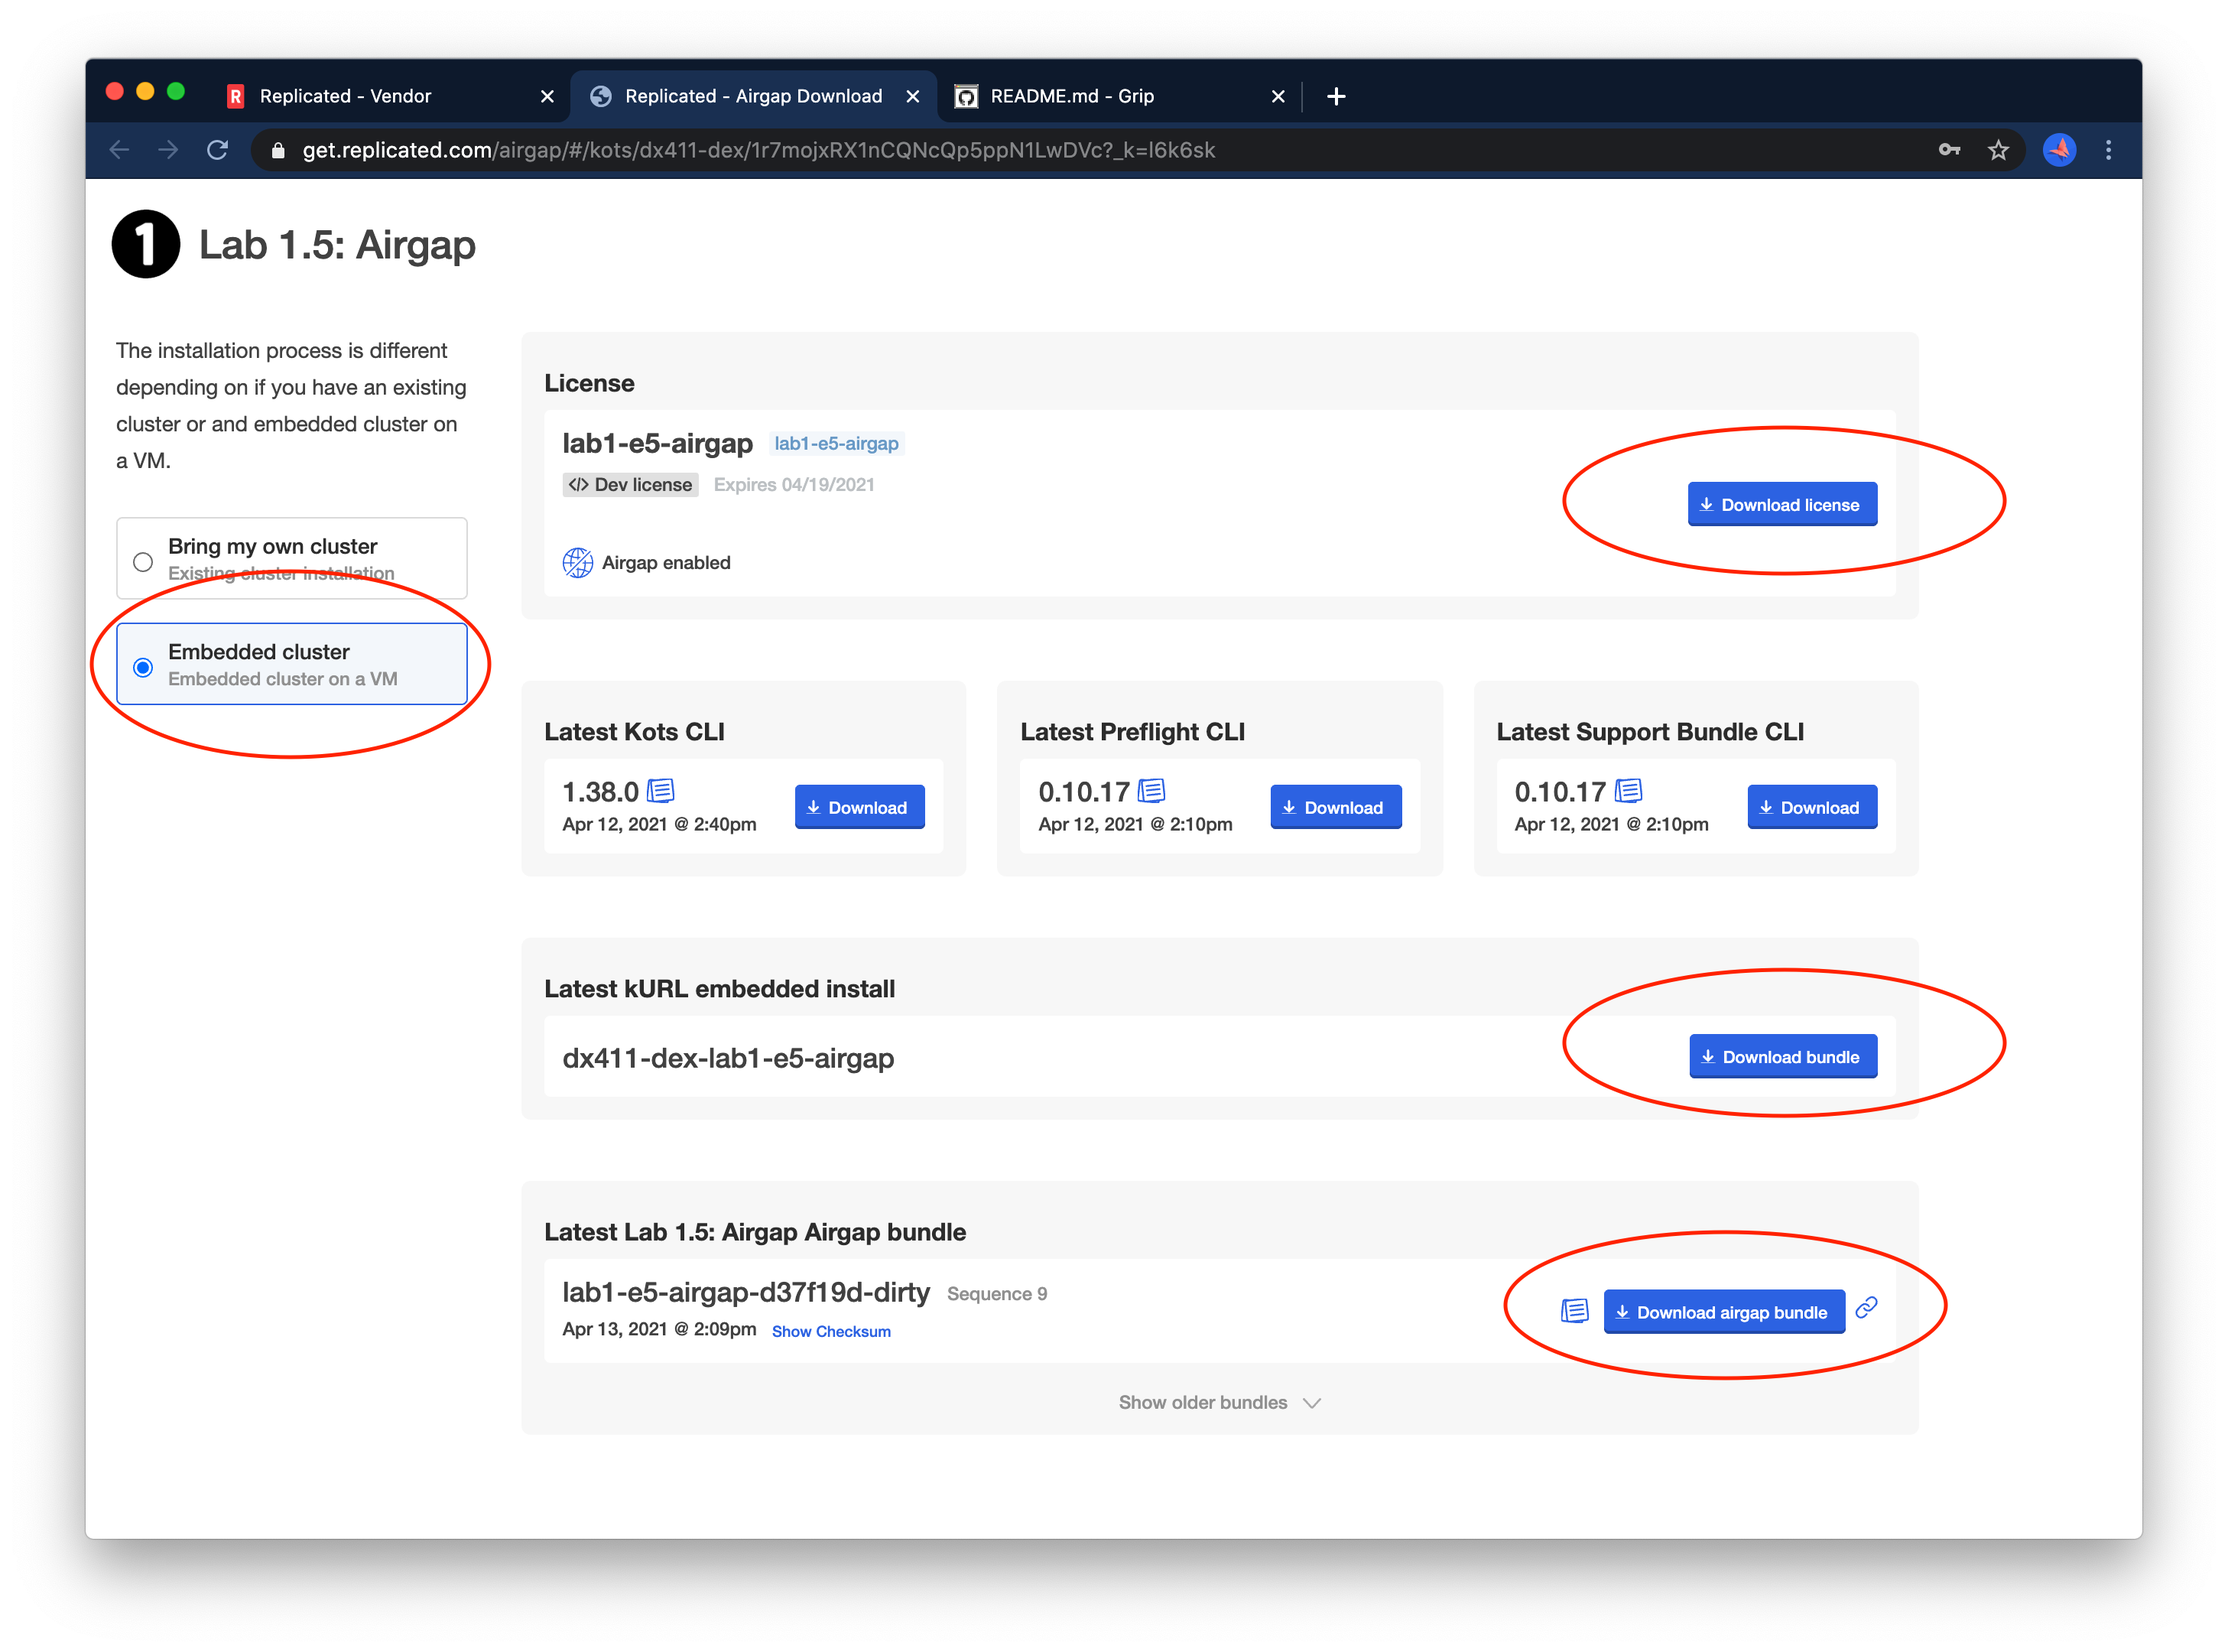
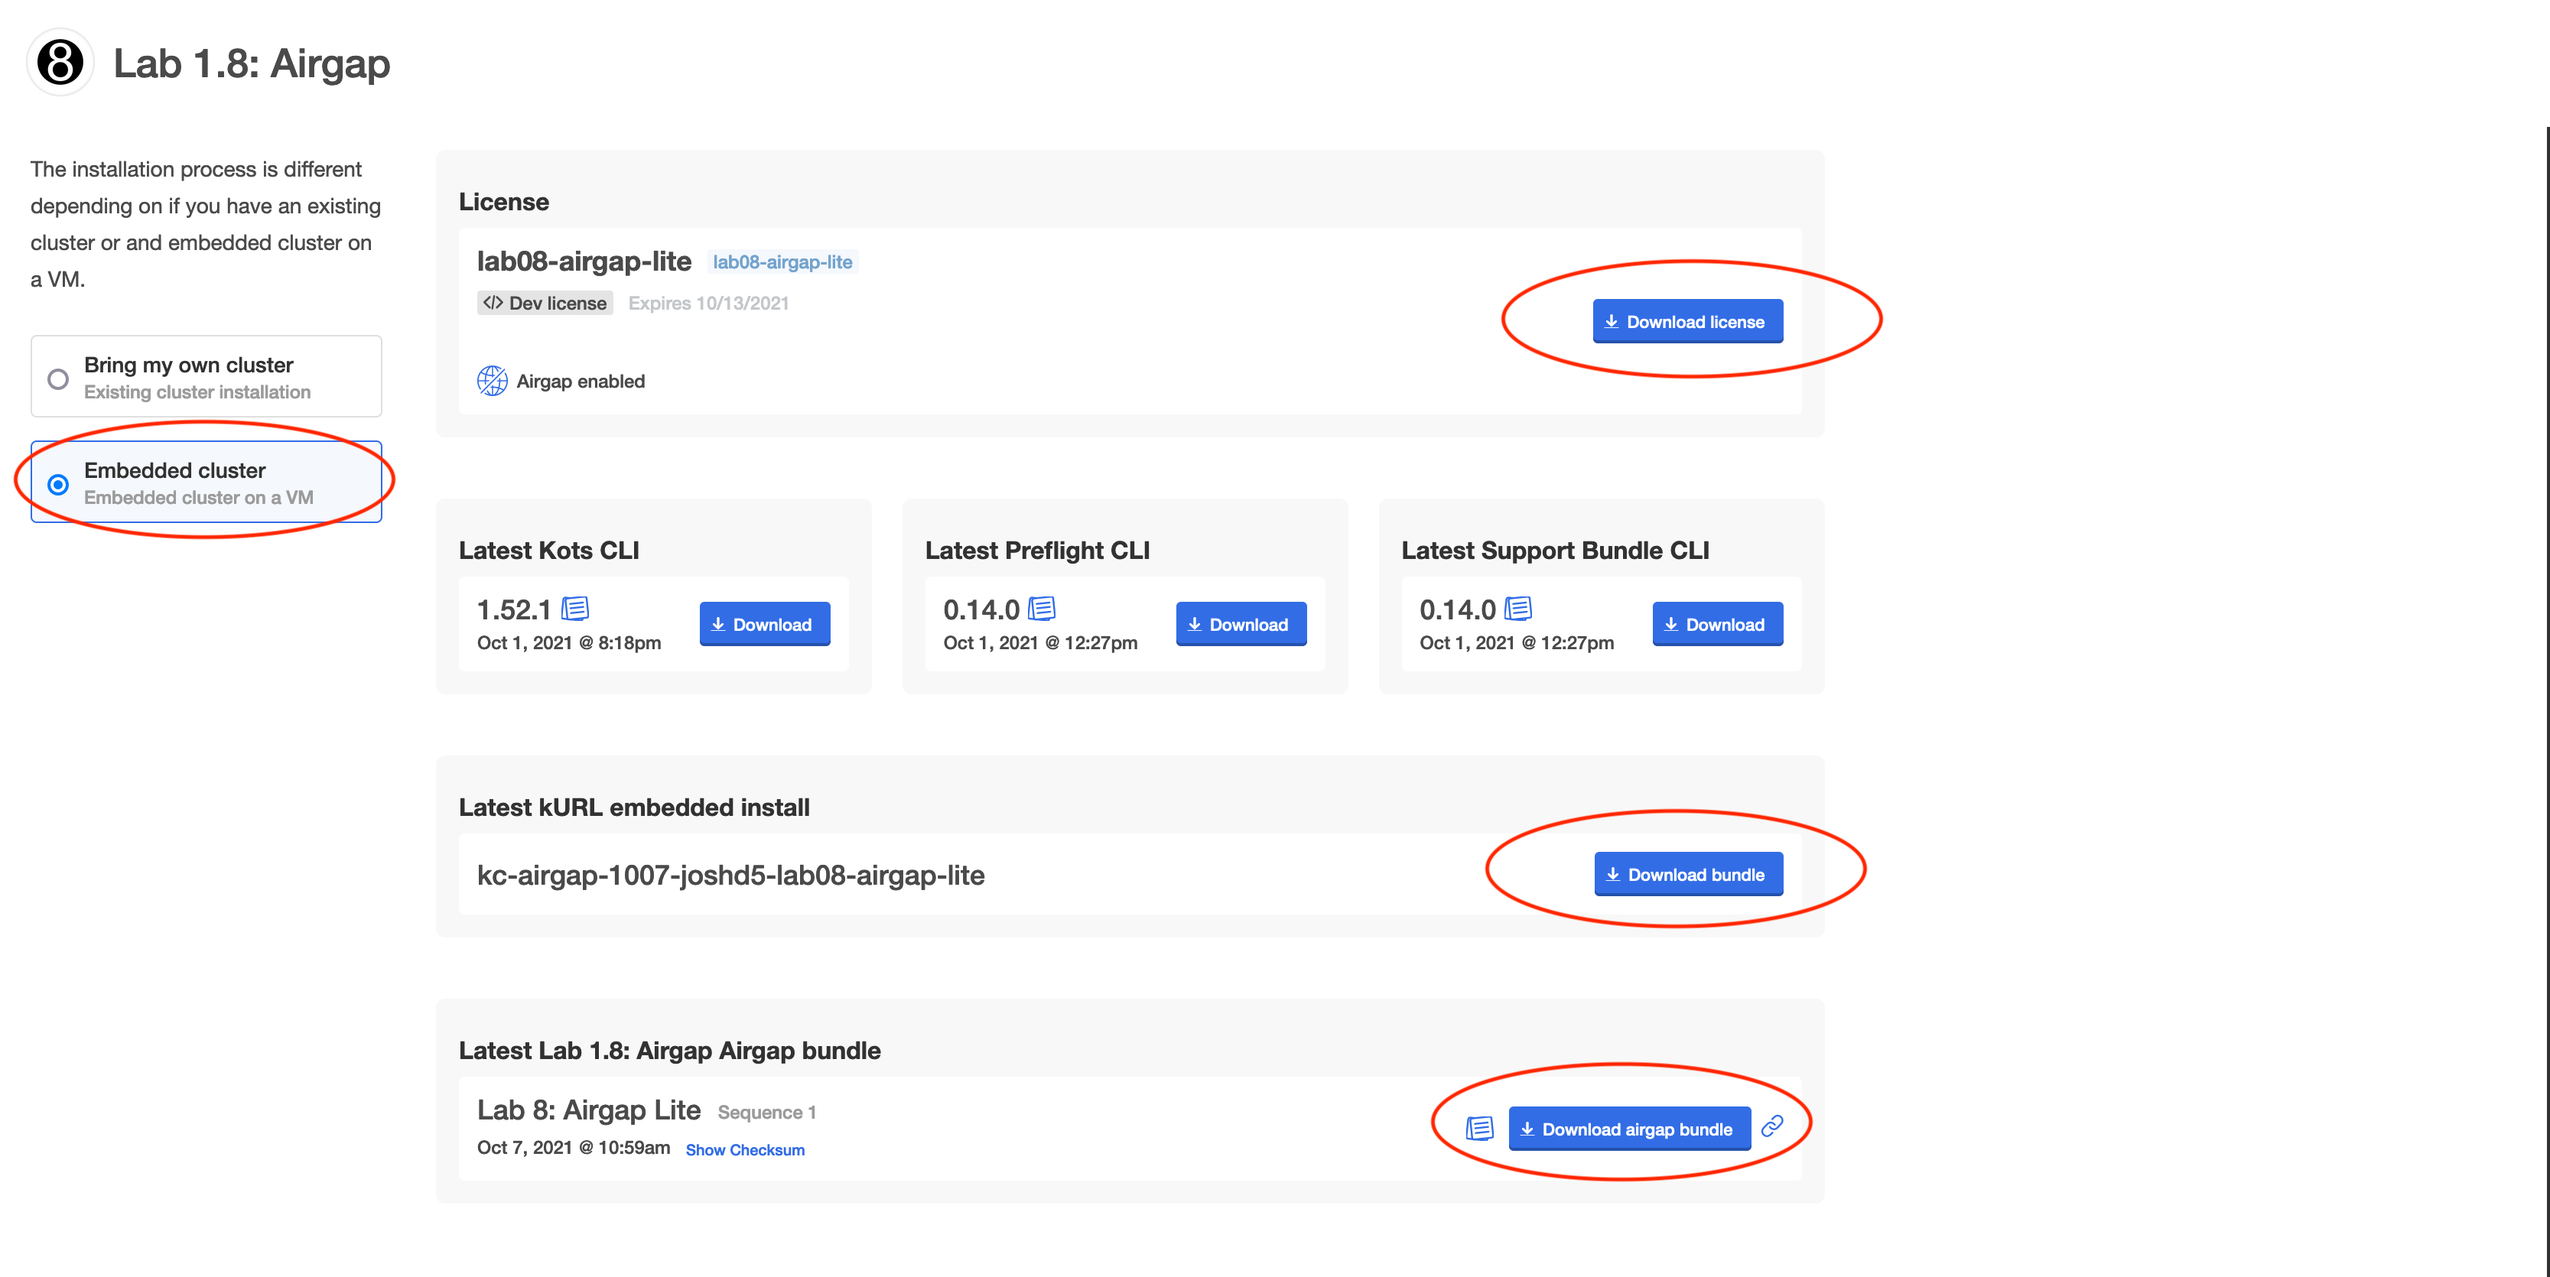
Updating download portal view

diff --git a/labs/lab08-airgap-lite/README.md b/labs/lab08-airgap-lite/README.md
@@ -183,21 +183,8 @@ Now you should see all the bundles building or built on the release history page
 
 ![airgap-built](img/airgap-builds.png)
 
-#### Enabling Airgap for a customer
-
-The first step will be to enable Air Gap for the `lab8` customer:
-
-![enable-airgap](./img/airgap-customer-enable.png)
-
-
 #### Download Airgap Assets 
-After saving the customer, scroll to the bottom of the page to the `Download Portal` section.
-
-![download-portal](img/airgap-customer-portal.png)
-
-Generate a new password and save it somewhere in your notes.
-Next, click the link to open the download portal. 
-This is a link you would usually send to your customer, so from here on we'll be wearing our "end user" hat.
+Let's go back to the download portal where we previously got the kURL bundle URL, so we can download the airgap assets.
 
 
 Navigate to the "embedded cluster" option and review the three downloadable assets.
@@ -208,7 +195,7 @@ Download the license file, but **don't download the kURL bundle** -- this is the
 
 You'll also want to download the other bundle `Latest Lab 1.8: Airgap Bundle` to your workstation.
 
-Now, let's SSH to our jump box (the one with the public IP) `ssh kots@<jump box IP address>` and download the kurl bundle.
+Now, let's SSH to our jump box (the one with the public IP) `ssh kots@<jump box IP address>` and check the download of the kurl bundle.
 Replace the URL with the one you copied above.
 
 At the beginning of the lab, we downloaded the bundle with this command from the Jump box.
